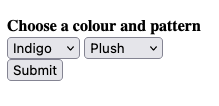
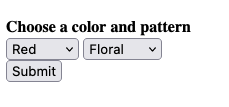
JavaScript (V3): Fix spelling and grammatical errors.

Changed region(s): [[0.0, 0.1698, 0.9315, 0.7925]]

diff --git a/javascriptv3/example_code/cross-services/lambda-for-browser/frontend/dist/index.html b/javascriptv3/example_code/cross-services/lambda-for-browser/frontend/dist/index.html
@@ -12,8 +12,8 @@ SPDX-License-Identifier: Apache-2.0
     <br />
     <form action="#">
       <br />
-      <label for="skill"><b>Choose a colour and pattern</b></label> <br />
-      <select name="colours" id="c1">
+      <label for="skill"><b>Choose a color and pattern</b></label> <br />
+      <select name="colors" id="c1">
         <option value="red">Red</option>
         <option value="orange">Orange</option>
         <option value="yellow">Yellow</option>
@@ -23,7 +23,6 @@ SPDX-License-Identifier: Apache-2.0
         <option value="violet">Violet</option>
       </select>
       <select name="pattern" id="p1">
-        <option value="floral">Floral</option>
         <option value="floral">Floral</option>
         <option value="modern">Modern</option>
         <option value="paisley">Paisley</option>

diff --git a/javascriptv3/example_code/cross-services/lambda-for-browser/frontend/src/index.js b/javascriptv3/example_code/cross-services/lambda-for-browser/frontend/src/index.js
@@ -34,7 +34,7 @@ const myFunction = async () => {
     alert("Success. Data added to table.");
     console.log("Success, payload", data);
   } catch (err) {
-    alert("Oops and error occurred.");
+    alert("Oops an error occurred.");
     console.log("Error", err);
   }
 };
